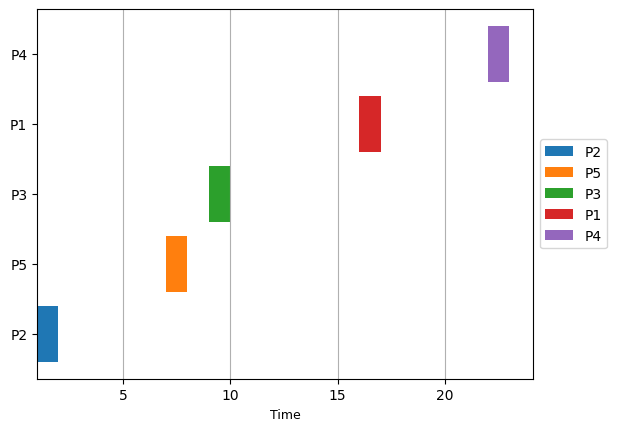
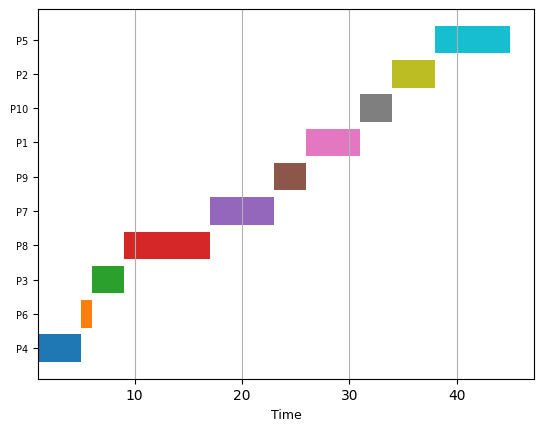
Update

diff --git a/CPU_Scheduler/main.py b/CPU_Scheduler/main.py
@@ -10,7 +10,8 @@ from tkinter import ttk
 from PIL import Image, ImageTk
 
 ## TODO
-# Change background and foreground color of table to black and white respectively   
+# Add some exit button on the top level window to destroy them
+# Complete the GANTT Chart for PPS
 
 NP = 0
 data = []
@@ -40,7 +41,7 @@ class ProcessTableBox(customtkinter.CTkScrollableFrame):
 
 
 class GanttChartBox(customtkinter.CTkScrollableFrame):
-    def __init__(self, master):
+    def __init__(self, master, title):
         super().__init__(master)
         self.height = 4000
         global NP
@@ -55,7 +56,7 @@ class GanttChartBox(customtkinter.CTkScrollableFrame):
 
         result = "Result dd"
         # Label for GANTT Chart
-        self.title = customtkinter.CTkLabel(self, text="GANTT Chart", fg_color="transparent", font=("Arial", 20))
+        self.title = customtkinter.CTkLabel(self, text=f"GANTT Chart({title})", fg_color="transparent", font=("Arial", 20))
         self.title.pack()
 
         ## WT Avg
@@ -66,7 +67,6 @@ class GanttChartBox(customtkinter.CTkScrollableFrame):
         self.title = customtkinter.CTkLabel(self, text=f"Turnaround Time Average: {round(TT, 2)}", fg_color="transparent", font=("Arial", 13))
         self.title.pack()
         
-
         self.myimg = customtkinter.CTkImage(Image.open("./GANTT_OUTPUT/GTChart.png"), size=(600, self.height))
         self.imgLabel = customtkinter.CTkLabel(self, image=self.myimg, text="")
         self.imgLabel.pack()
@@ -74,18 +74,20 @@ class GanttChartBox(customtkinter.CTkScrollableFrame):
 
 
 class ToplevelWindow(customtkinter.CTkToplevel):
-    def __init__(self, *args, **kwargs):
-        super().__init__(*args, **kwargs)
-        self.geometry("900x500")
+    def __init__(self, title):
+        super().__init__()
+        self.geometry("1080x720")
         self.grid_columnconfigure((0,1), weight=1)
         self.grid_rowconfigure(0, weight=1)
+        # Label for TOP_LEVEL WINDOW
+        
 
         # Instantiating Process Table Frame
         self.Process_Table_Box = ProcessTableBox(self)
         self.Process_Table_Box.grid(row=0, column=0, sticky="nsew", pady=20, padx=20)
 
         # Instantiating Process 
-        self.Gantt_Chart_Box = GanttChartBox(self)
+        self.Gantt_Chart_Box = GanttChartBox(self, title)
         self.Gantt_Chart_Box.grid(row=0, column=1, sticky="nsew", pady=20, padx=20)
 
 
@@ -126,19 +128,21 @@ class OptionWindow(customtkinter.CTkFrame): # Amo adi an window kun hain naka bu
     def setBT(self, value):
         self.BTSlider_CurValue.configure(text=math.trunc(value))
     
-    def generateGC_PPS(self, completed_list, start_times, end_times):
-        fig, ax = plt.subplots()
-        for i, process in enumerate(completed_list):
-            start_time = start_times[i]
-            end_time = end_times[i]
-            process_name = process[0]
-            ax.barh(process_name, end_time - start_time, left=start_time, label=process_name)
+    # def generateGC_PPS(self, completed_list, start_times, end_times):
+    #     fig, ax = plt.subplots()
+    #     print(completed_list)
+    #     for i, process in enumerate(completed_list):
+    #         start_time = start_times[i]
+    #         end_time = end_times[i]
+    #         process_name = process[0]
+    #         ax.barh(process_name, end_time - start_time, left=start_time, label=process_name)
 
-        ax.set_xlabel('Time', fontsize=9)
-        ax.legend(loc='center left', bbox_to_anchor=(1.0, 0.5))
-        plt.grid(axis='x')
-        plt.savefig("./GANTT_OUTPUT/GTChart.png", bbox_inches='tight', dpi=100)
-    def GenerateGANTT_Chart(self, process_Timing):
+    #     ax.set_xlabel('Time', fontsize=9)
+    #     ax.legend(loc='center left', bbox_to_anchor=(1.0, 0.5))
+    #     plt.grid(axis='x')
+    #     plt.savefig("./GANTT_OUTPUT/GTChart.png", bbox_inches='tight', dpi=100)
+    
+    def GenerateGANTT_Chart(self, processList, process_Timing):
         fig, ax = plt.subplots()
         for i, (process, timings) in enumerate(process_Timing.items()):
             start, end = timings
@@ -160,27 +164,24 @@ class OptionWindow(customtkinter.CTkFrame): # Amo adi an window kun hain naka bu
         if self.AlgoMenu.get() == "Preemptive Priority Scheduling":
             
             processList = self.PPS_Instance.inputRandom(int(self.Process_Input.get()), math.trunc(self.Burst_Time.get()))
-            completed_list = self.PPS_Instance.schedulingProcess()
+            completed_list = self.PPS_Instance.schedulingProcess(process_list=processList)
             WT = self.PPS_Instance.waitingTime
             TT = self.PPS_Instance.turnaroundTime
-            start_times = self.PPS_Instance.start_times
-            end_times = self.PPS_Instance.end_times
-            self.generateGC_PPS(completed_list, start_times, end_times)
-            
-        
+           
 
         elif self.AlgoMenu.get() == "Non-Preemtive Priotity Scheduling":
-            processList = self.PPS_Instance.inputRandom(int(self.Process_Input.get()), math.trunc(self.Burst_Time.get()))
+            processList = self.NonPPS_Instance.Random_Input(int(self.Process_Input.get()), math.trunc(self.Burst_Time.get()))
             processTiming = self.NonPPS_Instance.Execute(processList)
             WT = self.NonPPS_Instance.waitingTime
             TT = self.NonPPS_Instance.turnaroundTime
-            self.GenerateGANTT_Chart(processTiming)
+            self.GenerateGANTT_Chart(processList, processTiming)
         
         ## The two lines below are used sa printing of process table
         global data
         data = processList
+        self.toplev = ToplevelWindow(self.AlgoMenu.get())
 
-        self.toplev = ToplevelWindow(self) ## This Generates the Top Level window that shows the charts and Table
+         ## This Generates the Top Level window that shows the charts and Table
     
 
 class App(customtkinter.CTk):

diff --git a/CPU_Scheduler/PreemptivePriorityScheduling.py b/CPU_Scheduler/PreemptivePriorityScheduling.py
@@ -67,14 +67,15 @@ class _PreemptivePriorityScheduling: # Class for simulating Preemptive Priority 
 
         return self.fourColumnProcessList
         
-    def schedulingProcess(self): # Scheduling Algorithm
-        
+    def schedulingProcess(self, process_list): # Scheduling Algorithm
+        start_times = []
+        end_times = []
         current_time = 0 # Current Time Frame
         completed_list = [] # List for completed processes
         ready_queue = [] # Memory Queue
         
-        while len(completed_list) < len(self.process_list): # Loop for the Algorithm
-            for process in self.process_list:
+        while len(completed_list) < len(process_list): # Loop for the Algorithm
+            for process in process_list:
                 if process[1] <= current_time and process not in completed_list and process not in ready_queue: # Inserting newly arrived processes to the Memory Queue
                     ready_queue.append(process)
             
@@ -85,7 +86,7 @@ class _PreemptivePriorityScheduling: # Class for simulating Preemptive Priority 
                 current_time += 1
                 continue # Skip rest of the algorithm if idle time
             
-            ready_queue.sort(key=lambda x: x[4]) # Sorting the ready queue based on Priority Level
+            ready_queue.sort(key=lambda x: x[3]) # Sorting the ready queue based on Priority Level
             
             current_process = ready_queue[0] # Set current process as process with highest level in memory queue
             current_process[3] -= 1 # Decerement current process bust time
@@ -95,23 +96,33 @@ class _PreemptivePriorityScheduling: # Class for simulating Preemptive Priority 
             # print(f"Current Burst Time: {current_process[3]}")
             # print(f"Priority Level: {current_process[4]}")
             
-            if current_process[3] == 0: # Check if process is Completed
-                completed_list.append(current_process) # Append current process to completed list
-                ready_queue.pop(0) # Remove current process from ready queue
-                current_process[5] = current_time + 1 # Set completion time for current process
-            
-            if len(self.start_times) < len(completed_list):
-                self.start_times.append(current_time)
-            if len(self.end_times) < len(completed_list):
-                self.end_times.append(current_time + 1)
+            # if current_process[3] == 0:
+            #     start_times.append(current_time)
+            #     end_times.append(current_time + 1)
+
+            for i, process in enumerate(completed_list):
+                start_time = start_times[i]
+                end_time = end_times[i]
+                process_name = process[0]
+                ax.barh(process_name, end_time - start_time, left=start_time, label=process_name)
+
             
             current_time += 1 # Increment Current Time Frame
         
+
+
+        fig, ax = plt.subplots()
+
+
+        ax.set_xlabel('Time', fontsize=9)
+        ax.legend(loc='center left', bbox_to_anchor=(1.0, 0.5))
+        plt.grid(axis='x')
+        plt.savefig("./GANTT_OUTPUT/GTChart.png", bbox_inches='tight', dpi=100)
         # Initialize Totals of TT and WT
         total_wt = 0
         total_tt = 0
         
-        for process in self.process_list: # Loop to calculate WT and TT of each rocess
+        for process in process_list: # Loop to calculate WT and TT of each rocess
             turnaround_time = process[5] - process[1] # Calculate TT of process (Completion Time - Arrival Time)
             waiting_time = turnaround_time - process[2] # Calculate WT of process (Turnaround Time - Burst Time)
             

diff --git a/CPU_Scheduler/NonPreemptivePriorityScheduling.py b/CPU_Scheduler/NonPreemptivePriorityScheduling.py
@@ -53,9 +53,6 @@ class _NonPreemptivePriorityScheduling:
 
     # Execution of the Algorithm
     def Execute(self, processList):
-
-        
-        
         currentTime = 0
         ProcessComplete = []
         MemoryQueue = []
@@ -99,8 +96,8 @@ class _NonPreemptivePriorityScheduling:
             totalWT += waitingTime
             totalTT += turnarroundTime
 
-        WT = totalWT / len(self.processList) # Waiting time
-        TT = totalTT / len(self.processList) # Turnaround TIme
+        WT = len(self.processList) / totalWT  # Waiting time
+        TT = len(self.processList) / totalTT  # Turnaround TIme
 
         
         self.waitingTime = WT
